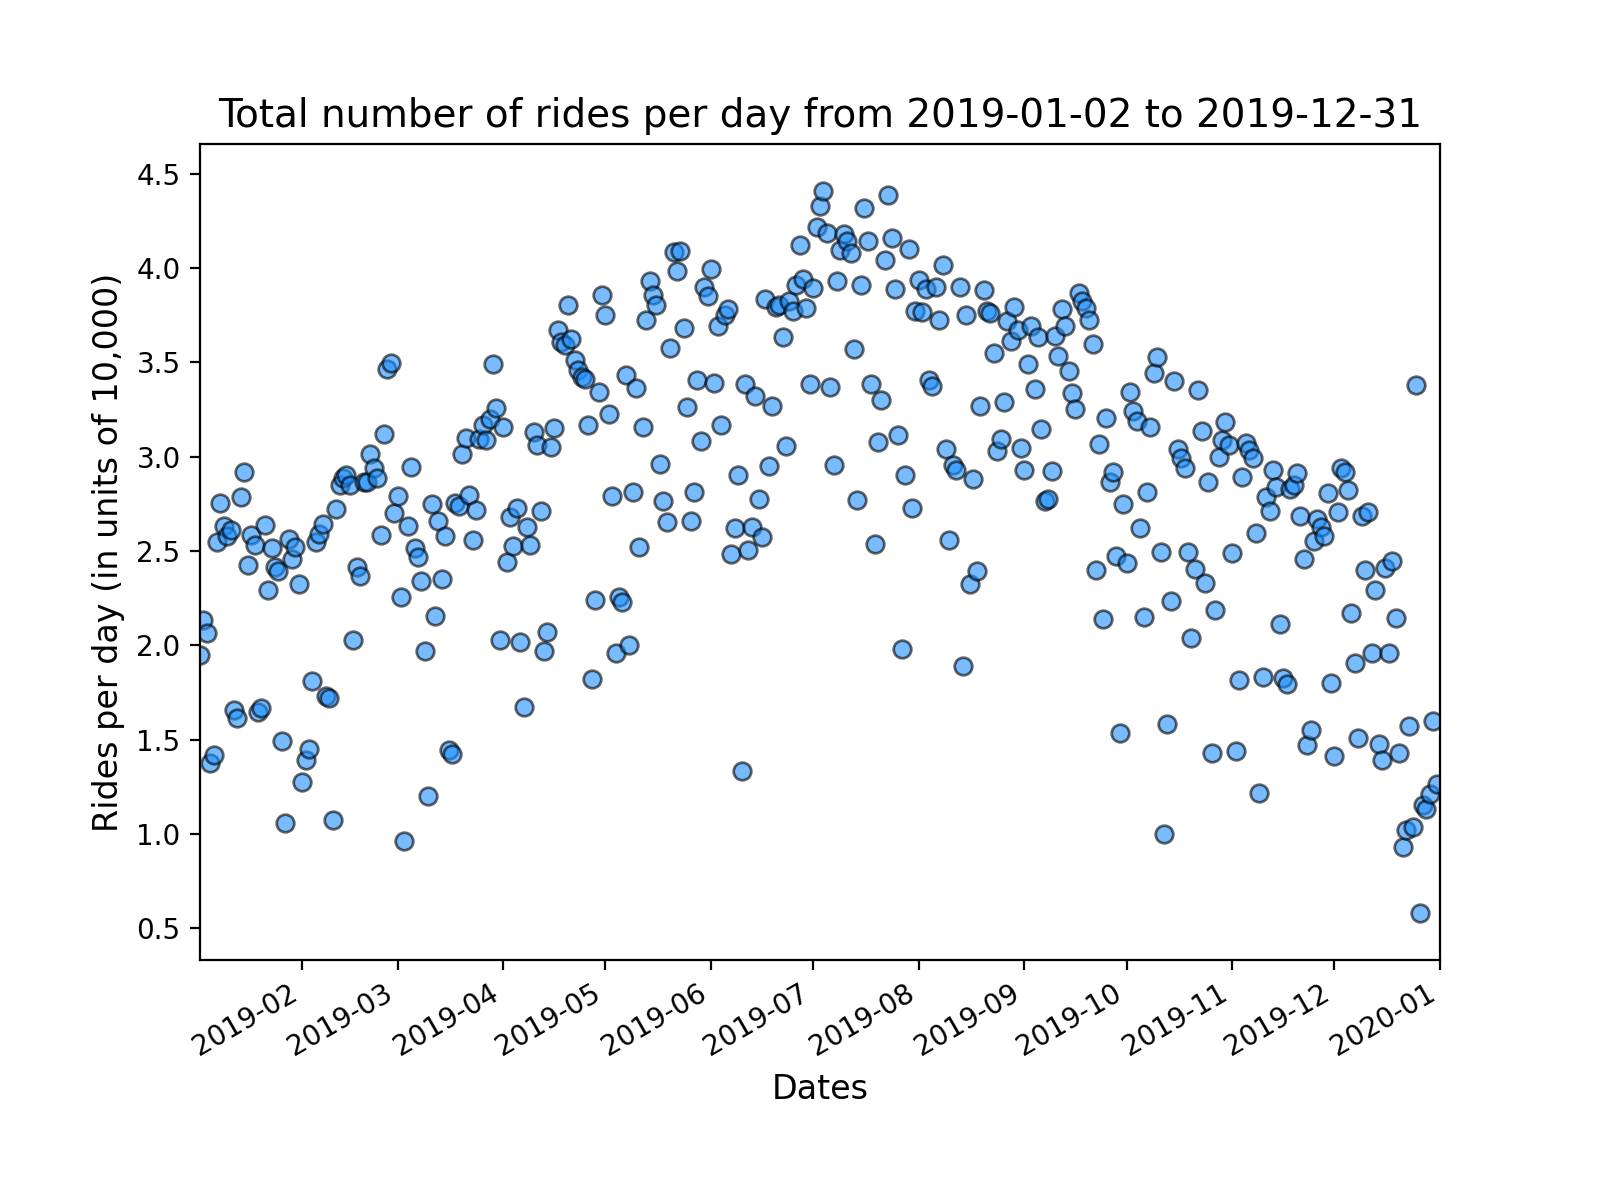
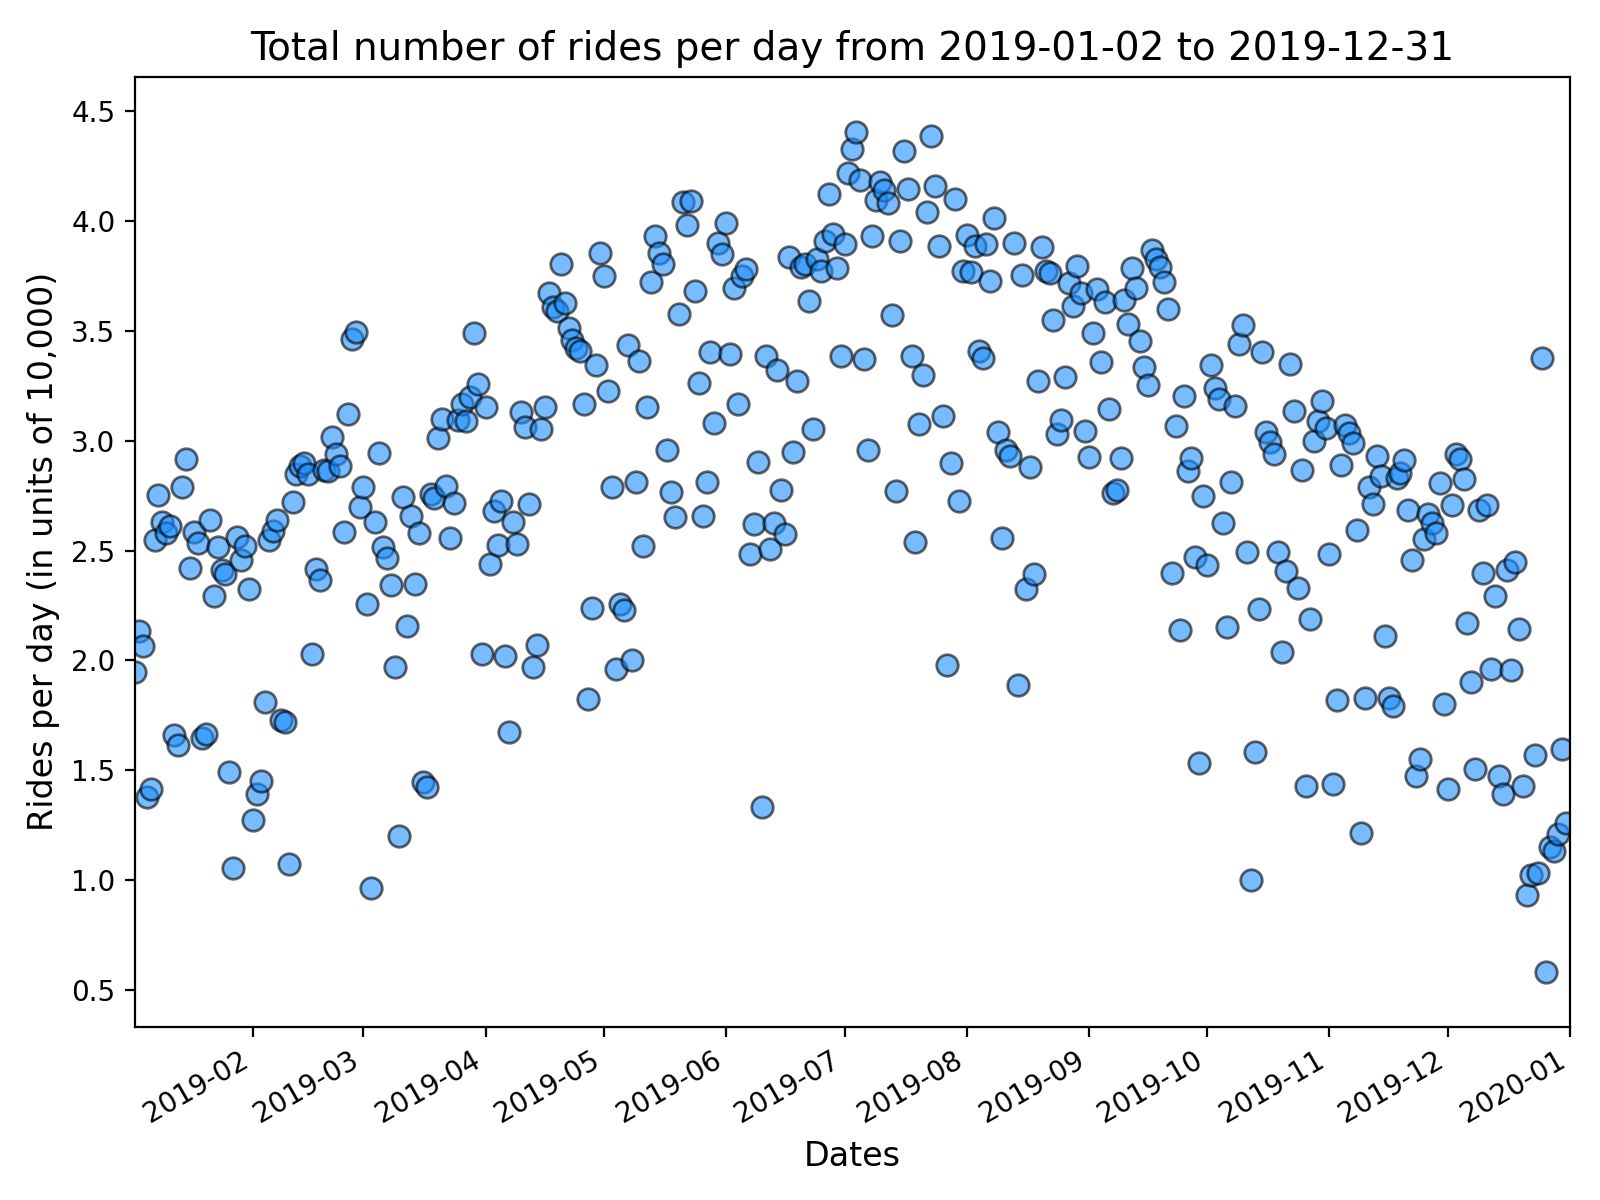
Made data points larger

diff --git a/exploratory_data_analysis/rides.py b/exploratory_data_analysis/rides.py
@@ -36,7 +36,7 @@ filter_ = bike_df['Date'].isin(dates)
 days = bike_df['Date'].loc[filter_]
 rides = bike_df['Num_Rides'].loc[filter_]
 fig, axes = plt.subplots(figsize=(8, 6))
-axes.scatter(days, rides/1e4, alpha=0.6, marker='o', s=40,
+axes.scatter(days, rides/1e4, alpha=0.6, marker='o', s=60,
              color='dodgerblue', edgecolor='k')
 
 yaxis_limits = axes.yaxis.get_data_interval()
@@ -76,7 +76,7 @@ axes.set_xlabel('Dates', fontsize=12)
 axes.set_ylabel('Rides per day (in units of 10,000)', fontsize=12)
 axes.set_title(
     f'Total number of rides per day from {days.min():%Y-%m-%d} to {days.max():%Y-%m-%d}', fontsize=14)
-# fig.tight_layout()
+fig.tight_layout()
 # axes.grid(linestyle=':')
 print(f'Time elapsed: {time() - t0:.2f} seconds')
 plt.show()
